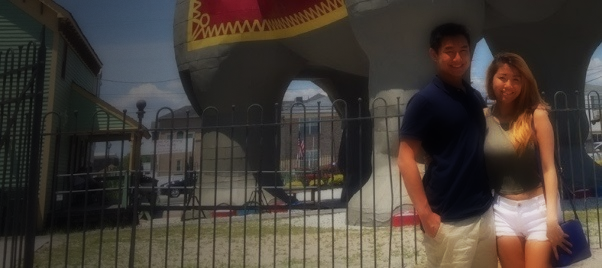
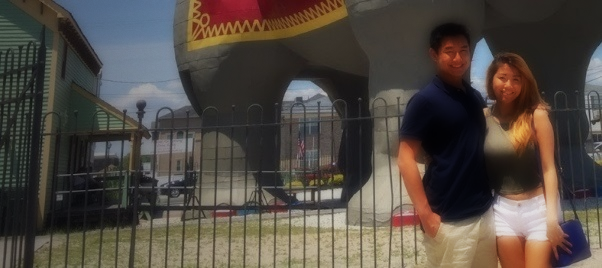
ss

diff --git a/index.html b/index.html
@@ -76,7 +76,7 @@
 				<!-- Intro -->
 					<section id="top" class="one dark cover">
 						<div class="container">
-							<a href="#top" style="text-decoration:none;" class="scrolly"><img src="favicon4.png" alt="Jayden Ma" width="128" height="128" /></a>
+							<img src="favicon4.png" alt="Jayden Ma" width="128" height="128" />
 							<br>
 							<br>
 
@@ -211,7 +211,7 @@
 								<h2>About Me</h2>
 							</header>
 
-							<img src="elephant.jpg" alt="Jayden Ma" width="602" height="268" />
+							<img src="elephant.png" alt="Jayden Ma" width="602" height="268" />
 							
 							<br>
 							<br>
